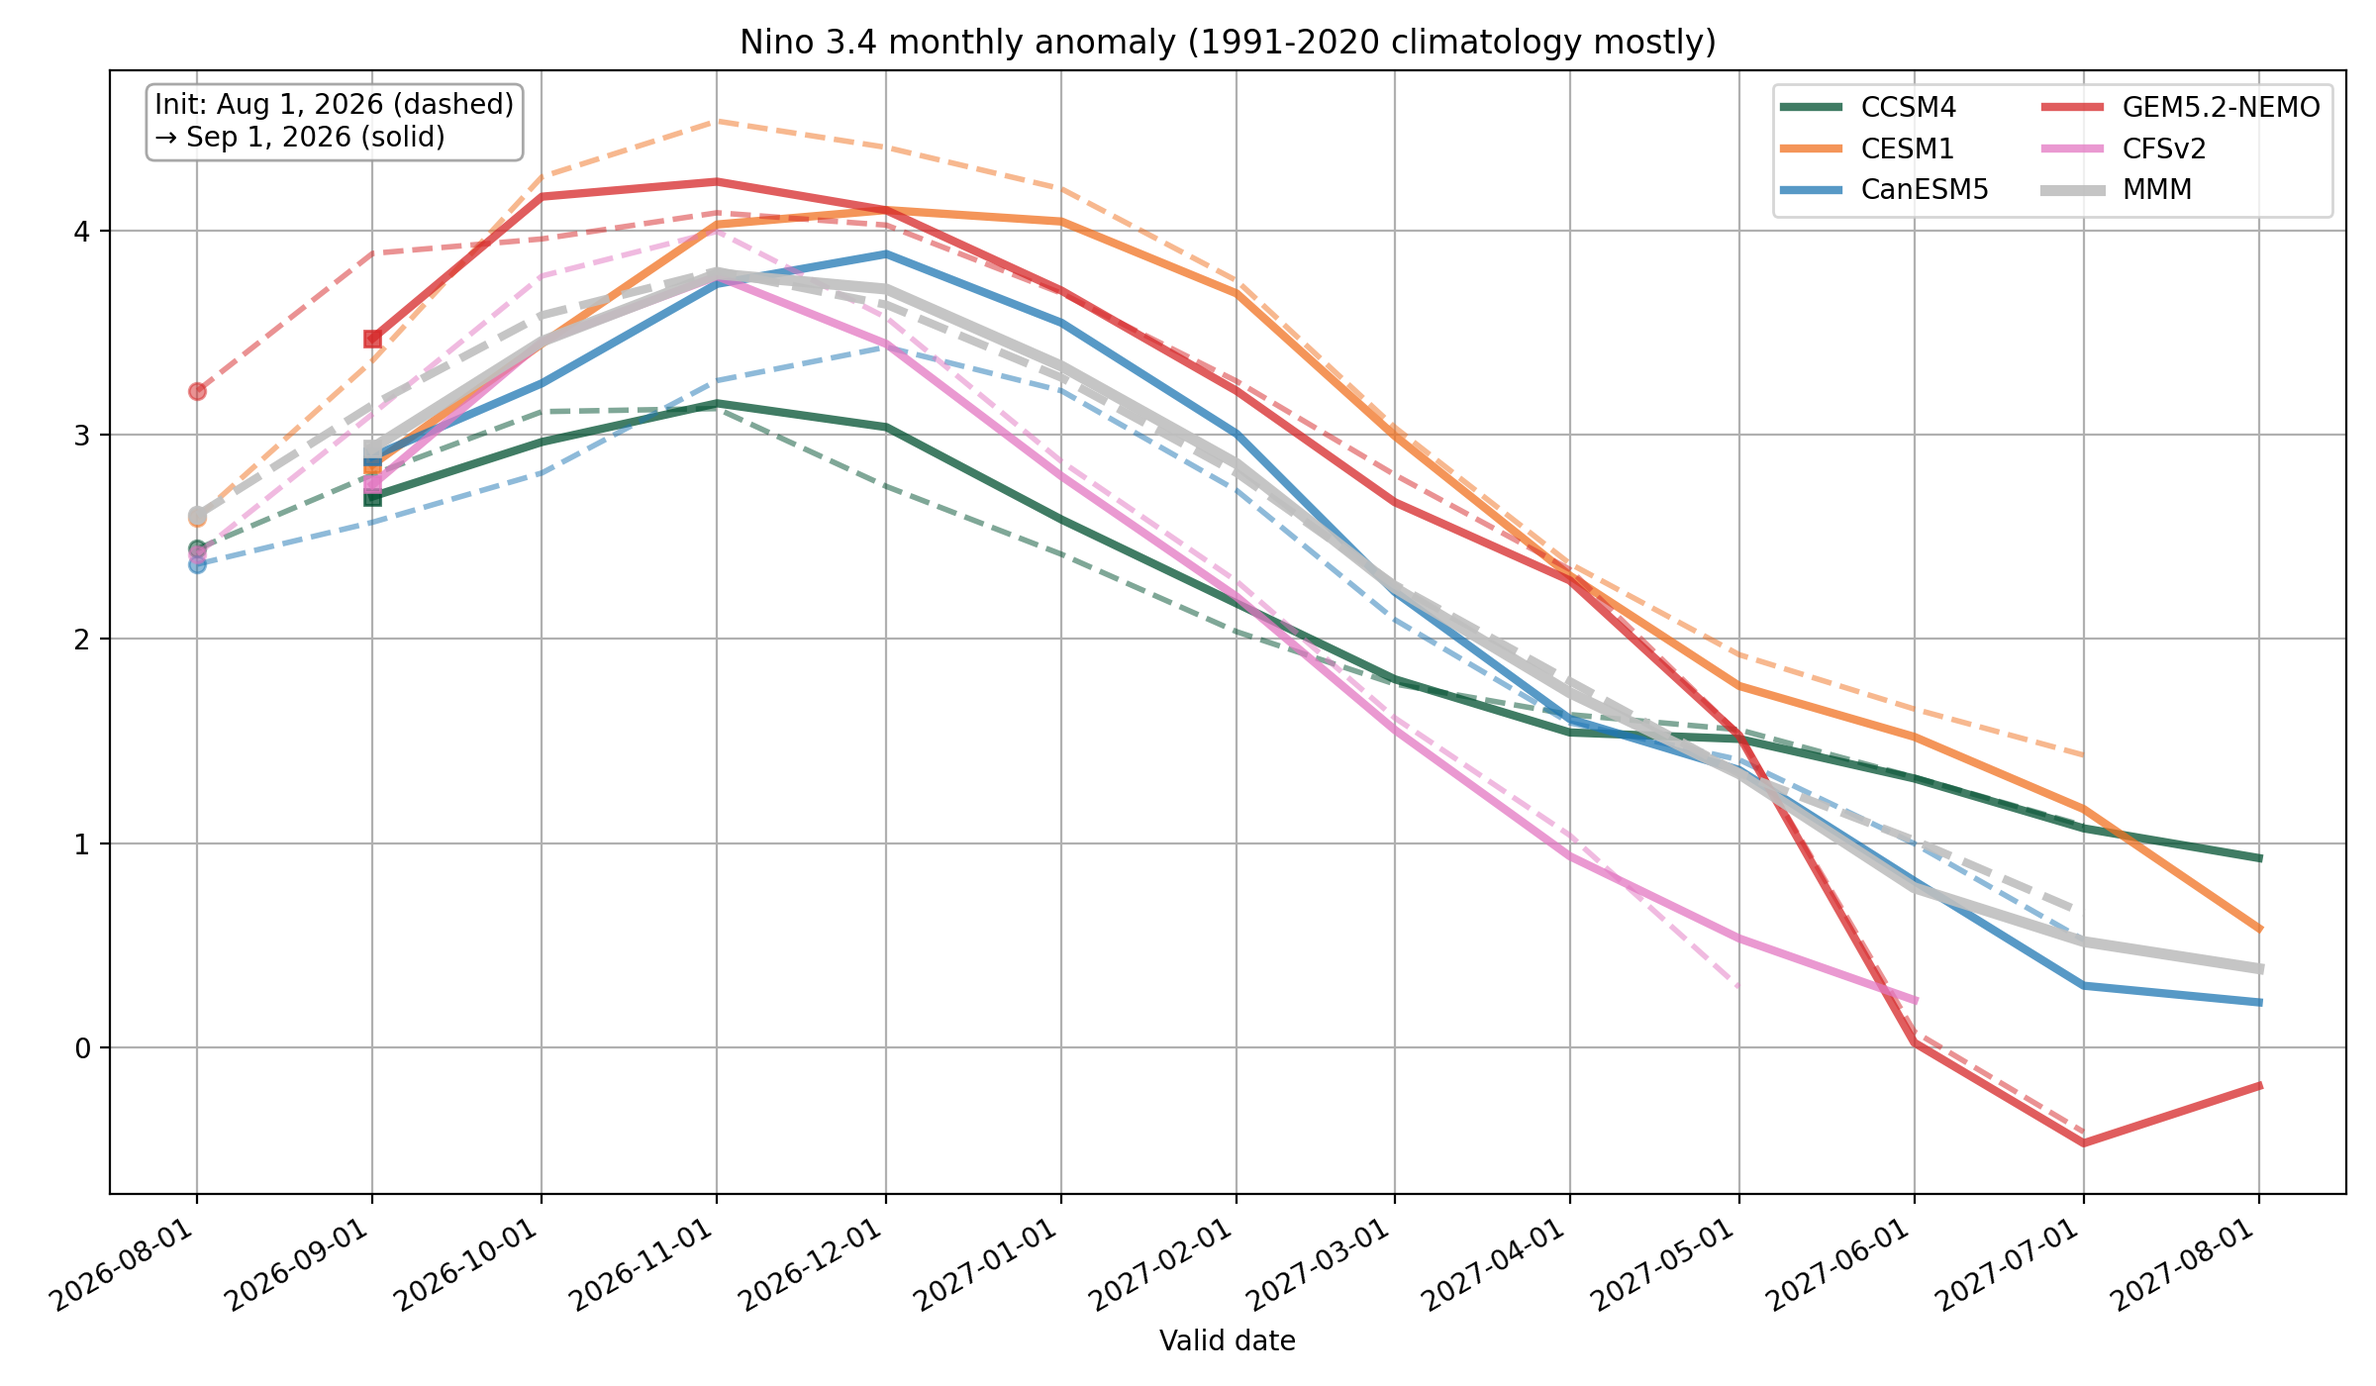
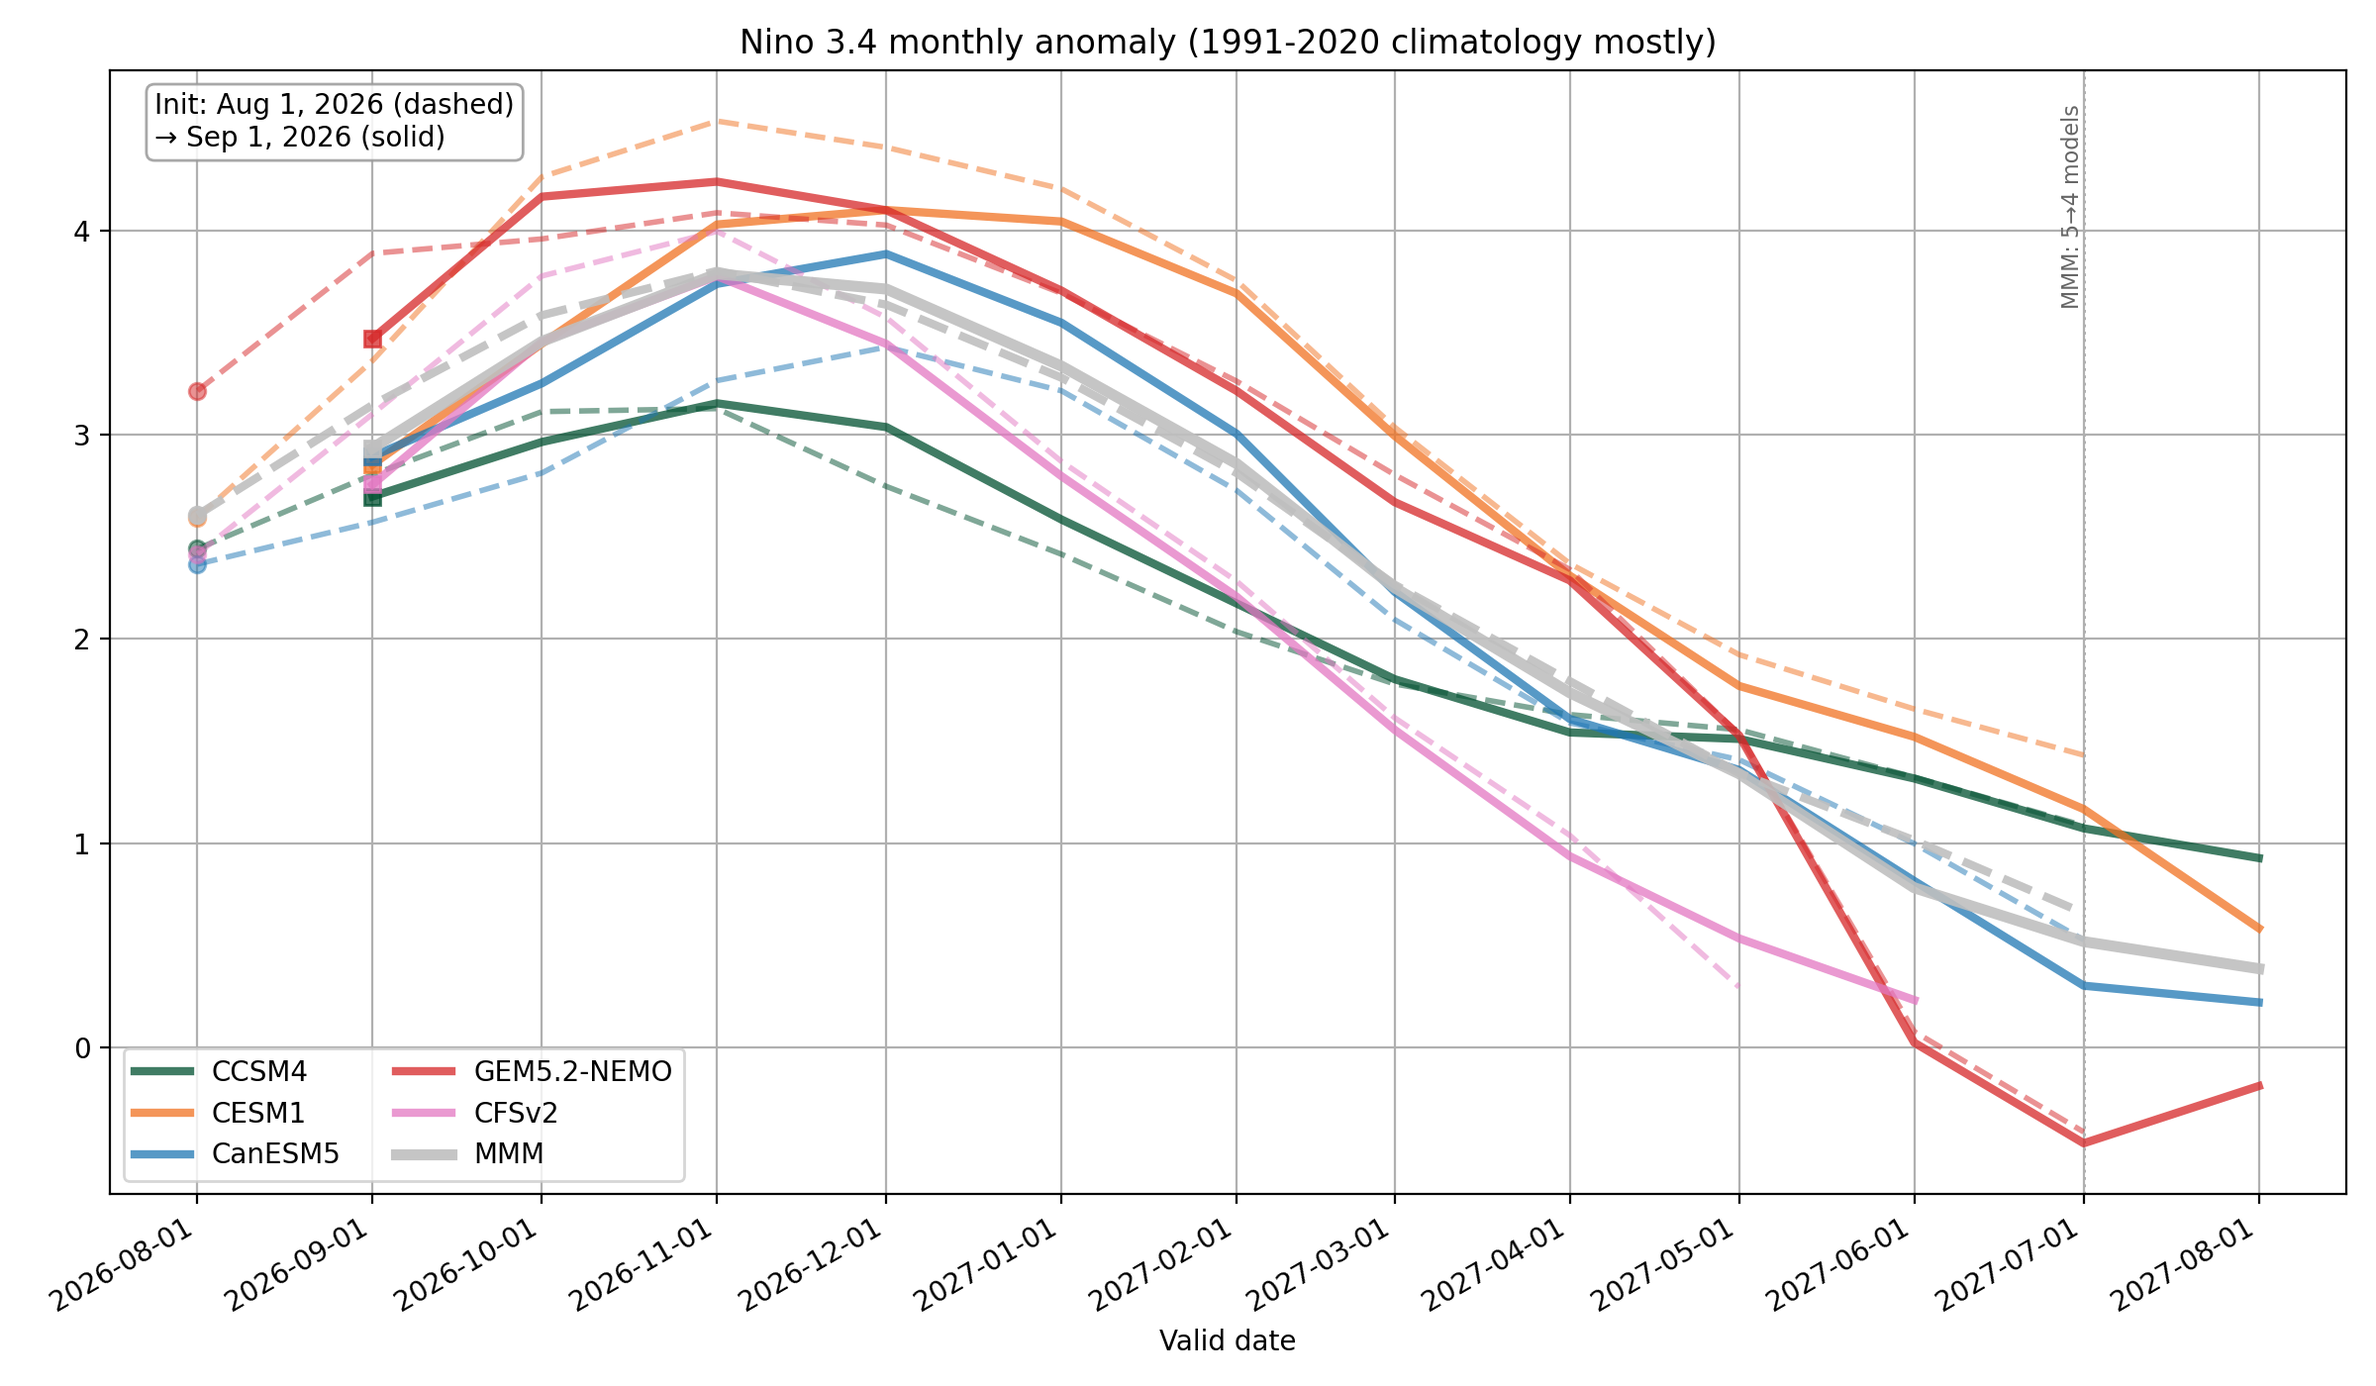
Flag MMM model-composition step in latest-forecast plume figures
The MMM's skipna mean silently shrinks its averaged model set as
shorter-lead models (NASA-GEOSS2S, NCEP-CFSv2) run out of forecast,
producing a step that can read as real forecast decay. Add
_annotate_mmm_steps to mark the drop in-figure (dotted vline + model-count
label) rather than correcting or hiding it, per the project's rule to
document display artifacts. Resolves the open item tracked since 2026-08-05.

Claude-Session: https://claude.ai/code/session_01Sx79iqrvBdSXQF7K4ZDYs1

Changed region(s): [[0.75, 0.0614, 1.0, 0.215], [0.0312, 0.7679, 0.2812, 0.86]]

diff --git a/scripts/latest_forecast.py b/scripts/latest_forecast.py
@@ -331,6 +331,30 @@ def _set_xaxis(fig, ax, ticks, seasonal):
     ax.set_xlim(_tight_xlim(ticks))
 
 
+def _annotate_mmm_steps(ax, leads, mean_list, l0):
+    """Mark leads where the MMM's contributing model count drops (a
+    shorter-lead model, e.g. NASA-GEOSS2S or NCEP-CFSv2, running out of
+    forecast; see config.N_LEADS_PLOT docstring), so the resulting step in
+    the MMM line isn't misread as real forecast change. `xr.concat(...).mean(
+    "model", skipna=True)` (the default) silently shrinks the averaged model
+    set rather than raising, so the step must be flagged rather than left
+    implicit — see specs/latest_forecast.md Edge Cases.
+
+    Skips indices < l0: the seasonal variant's centered rolling mean leaves
+    every model NaN at the first (and last) lead, which is a smoothing
+    artifact common to all models, not a composition change.
+    """
+    n_models = xr.concat(mean_list, dim="model").notnull().sum("model").values
+    for i in range(l0 + 1, len(n_models)):
+        if 0 < n_models[i] < n_models[i - 1]:
+            ax.axvline(leads[i], color="0.55", ls=":", lw=1, alpha=0.8, zorder=0)
+            ax.annotate(
+                f"MMM: {n_models[i - 1]}→{n_models[i]} models",
+                xy=(leads[i], 0.97), xycoords=ax.get_xaxis_transform(),
+                rotation=90, va="top", ha="right", fontsize=8, color="0.4",
+            )
+
+
 def plot_grid(ds, start, spec, now_idx, date_suffix):
     """Per-model facet grid of the latest forecast anomaly (lead x member)."""
     da = ds[spec["var"]].isel(S=now_idx)
@@ -391,6 +415,7 @@ def plot_compare(ds, start, avail, model_colors, spec, now_idx, prev_idx, date_s
     ax.plot(leads_prev[l0], mmm_prev.isel(L=l0), "o", lw=3, color=MMM_COLOR, alpha=0.9)
     ax.plot(leads_now, mmm_now, lw=4, color=MMM_COLOR, label="MMM", alpha=0.9)
     ax.plot(leads_now[l0], mmm_now.isel(L=l0), "s", lw=4, color=MMM_COLOR, alpha=0.9)
+    _annotate_mmm_steps(ax, leads_now, now_list, l0)
 
     ticks = pd.date_range(start[prev_idx], periods=13, freq="MS")
     _set_xaxis(fig, ax, ticks, seasonal)
@@ -432,6 +457,7 @@ def plot_spread(ds, start, avail, model_colors, spec, now_idx, date_suffix, seas
     mmm = xr.concat(mean_list, dim="model").mean("model")
     ax.plot(leads, mmm, lw=5, color=MMM_COLOR, label="MMM", alpha=0.9)
     ax.plot(leads[l0], mmm.isel(L=l0), "s", lw=4, color=MMM_COLOR)
+    _annotate_mmm_steps(ax, leads, mean_list, l0)
 
     ticks = pd.date_range(start[now_idx], periods=12, freq="MS")
     _set_xaxis(fig, ax, ticks, seasonal)
@@ -478,6 +504,7 @@ def plot_spread_synthetic(ds, start, avail, model_colors, spec, now_idx, date_su
     ax.plot(leads, hi, "--", lw=2, color=SYNTHETIC_MMM_COLOR, alpha=0.8)
     ax.plot(leads, mmm, lw=5, color=SYNTHETIC_MMM_COLOR, label="MMM", alpha=0.9)
     ax.plot(leads[l0], mmm.isel(L=l0), "s", lw=4, color=SYNTHETIC_MMM_COLOR)
+    _annotate_mmm_steps(ax, leads, mean_list, l0)
 
     ticks = pd.date_range(start[now_idx], periods=12, freq="MS")
     _set_xaxis(fig, ax, ticks, seasonal)
@@ -780,6 +807,7 @@ def plot_mean(ds, start, avail, model_colors, spec, now_idx, date_suffix, season
     mmm = xr.concat(mean_list, dim="model").mean("model")
     ax.plot(leads, mmm, lw=4, color=MMM_COLOR, label="MMM", alpha=0.9)
     ax.plot(leads[l0], mmm.isel(L=l0), "s", lw=4, color=MMM_COLOR)
+    _annotate_mmm_steps(ax, leads, mean_list, l0)
 
     ticks = pd.date_range(start[now_idx], periods=12, freq="MS")
     _set_xaxis(fig, ax, ticks, seasonal)

diff --git a/specs/latest_forecast.md b/specs/latest_forecast.md
@@ -310,6 +310,27 @@ rather than plotted as a gap.
   and deliberately reverted (see Synchronization Log 2026-07-09) since Grid's
   panels are member x lead heatmaps and MMM has no member dimension of its
   own.
+- **MMM composition-change annotation** (`_annotate_mmm_steps`) — the MMM's
+  `xr.concat([...], dim="model").mean("model")` is `skipna=True` by default,
+  so as shorter-lead models (`NASA-GEOSS2S`, `NCEP-CFSv2`; see
+  `config.N_LEADS_PLOT` docstring) run out of forecast and drop to NaN, the
+  MMM silently averages over fewer models rather than raising or padding —
+  producing a step in the MMM line that can read as real forecast change
+  when it is actually a change in which models are being averaged. Rather
+  than correcting or hiding this (per the project's rule to document display
+  artifacts, not clip them), `_annotate_mmm_steps(ax, leads, mean_list, l0)`
+  computes the per-lead count of non-NaN models
+  (`xr.concat(mean_list, dim="model").notnull().sum("model")`) and, at every
+  lead index `i > l0` where that count drops (and is still > 0), draws a
+  light dotted vline (`color="0.55", ls=":"`) plus a small rotated label
+  `"MMM: N→M models"` (axes-fraction y, data-coordinate x, via
+  `ax.get_xaxis_transform()`) just inside the top of the axes. Called once
+  per figure that plots an MMM line — Compare (only for the selected-init
+  `now_list`, not the previous-init line, to avoid doubling the annotation),
+  Spread, Spread-synthetic, and Mean — immediately after that figure's MMM
+  `ax.plot()` call. `l0` (1 for seasonal, 0 for monthly) is passed through so
+  the seasonal variant's all-model NaN endpoints (see §4a) are never flagged
+  as a composition change.
 
 ### 4a. X-axis ticks and limits
 
@@ -672,8 +693,11 @@ monthly and seasonal — each with 4 rows (`n34 anom`, `n34 rank`, `n34r anom`,
   defensively.
 - **Models with shorter lead count** (`NASA-GEOSS2S`, `NCEP-CFSv2`; see
   `config.N_LEADS_PLOT` docstring) are NaN-padded to 12 leads in the store,
-  so no special-casing is needed in the plotting code — NaNs simply stop the
-  line early.
+  so no special-casing is needed for their own per-model lines — NaNs simply
+  stop the line early. The MMM line built across models *does* need
+  special-casing, since `.mean("model")` silently shrinks the averaged set
+  rather than stopping — see the MMM composition-change annotation bullet in
+  §4 and Synchronization Log 2026-09-07.
 - **A future model with incomplete 1991-2020 hindcast coverage joining
   `avail_models`**: `_lead_error_cov` (called by both `_synthetic_plume` and
   `plot_strength_probabilities`) raises `ValueError` naming the
@@ -851,11 +875,14 @@ print("Verification passed.")
 ## Open Items
 
 - **Verification snippet's "Synthetic-plume sanity" block is broken** (pre-existing, found 2026-09-07 while re-running the full snippet after this session's `strength_probabilities` additions — not caused by this session's changes, confirmed unchanged in `git show HEAD:specs/latest_forecast.md`). It builds `avail` as *positional* indices (`np.where(...)[0]`) and passes them to `_synthetic_plume`, which does `ds[...].sel(model=avail_models)` — `.sel` expects model *names* (as `_available_models` in the actual script returns), so it raises `KeyError: "not all values found in index 'model'"`. Needs `avail_models = ds.model.isel(model=avail).values` (matching the pattern already used a few lines above in the "Summary-table rank sanity" block) before the `_synthetic_plume` calls. Not fixed this session (out of scope — unrelated to `strength_probabilities`); the rest of the snippet (through the new strength-category partition check) passes.
+- **`latest_forecast_summary.md` doesn't carry the same MMM-composition flag as the figures.** This session's `_annotate_mmm_steps` fix (see Synchronization Log 2026-09-07) is figure-only; `write_summary_tables`/`_historical_mmm` compute the same kind of shrinking-model-set MMM for the summary table's anomaly/rank rows but the table has no equivalent note when a lead's model count differs from the pool. Not addressed this session — scoped to "the latest plots" per the request that prompted the fix.
+- **Whether `GFDL-SPEAR` belongs in the MMM pool at all** — raised 2026-08-05, still open. 9 of its last 14 starts (2025-06 through 2026-06) are interior all-NaN upstream (see `config._nan_start_report`, Synchronization Log 2026-08-05), so it drops in and out of `avail`/the MMM ranking climatology inconsistently across recent inits, unlike a model that has simply reached its lead limit (which `_annotate_mmm_steps`, added this session, now flags). Needs a decision: exclude `GFDL-SPEAR` from the MMM pool until upstream is fixed, flag its intermittent absence the same way as the lead-limit case, or leave as-is pending an upstream fix. Not addressed this session.
 
 ## Synchronization Log
 
 | Date | Code change | Spec updated |
 |------|-------------|--------------|
+| 2026-09-07 | **Flagged the MMM's model-composition step with an in-figure annotation** (new `_annotate_mmm_steps(ax, leads, mean_list, l0)`), resolving the open item raised 2026-08-05 (memory `mmm-lead9-composition-step`): the MMM's `xr.concat([...], dim='model').mean('model')` silently shrinks the averaged model set as shorter-lead models (`NASA-GEOSS2S`, `NCEP-CFSv2`) run out of forecast, producing a step in the MMM line that can read as real forecast decay. Fixed by documenting the artifact rather than correcting it (per the project's display-choices rule): the new helper computes the per-lead non-NaN model count and draws a dotted vline + `"MMM: N→M models"` label at every lead where it drops, called from `plot_compare` (selected-init line only), `plot_spread`, `plot_spread_synthetic`, and `plot_mean`, right after each figure's MMM `ax.plot()`. Confirmed live in the 2026-09 init: `NCEP-CFSv2` (the only model still running past lead 9, since `GFDL-SPEAR` and `NASA-GEOSS2S` are both currently absent from `avail` — see new Open Item on `GFDL-SPEAR`) drops at lead 10, so all 16 MMM-line figures (2 indices x 2 kinds x 4 figure types) now carry the "MMM: 5→4 models" marker at 2027-07 (monthly) / MJJ (seasonal). All 16 figures regenerated and visually checked for label placement (no collision with legends or data in either variant). No numeric/algorithm change to any plotted value — annotation only. See Algorithm §4 (new bullet) and Edge Cases. | ✓ |
 | 2026-09-07 | **Switched strength_probabilities from Monte Carlo to an analytic normal CDF**, per user question ("does this use the 100 synthetic members or a formula?") followed by a request to swap and confirm the difference is small. Extracted `_lead_error_cov(ds, avail, spec, seasonal, now_idx)` out of `_synthetic_plume` (steps 1-6 of the covariance build — historical MMM forecast error, stratified by start month, `np.cov` across leads — now shared; `_synthetic_plume` keeps only the draw/add-to-MMM steps 7-8, behavior-preserving, same seed/cov/inputs). New `_category_pct_normal(lo, hi, mean, std)` (`scipy.stats.norm.cdf`) computes each category's probability directly from `lead_mean = mmm.sel(L=valid_L)` and `lead_std = sqrt(diag(cov))` — no draws, so `N_STRENGTH_DRAWS` and the `N_SYNTHETIC_MEMBERS` save/restore dance are removed entirely. Verified the swap changes nothing that matters: compared against the prior 5000-draw Monte Carlo implementation (`scratchpad/compare_mc_vs_analytic.py`, not checked in) — max discrepancy 1.2 percentage points, mean 0.16 pp across 10 categories x 10 seasons of the 2026-09 init, against an expected 1σ Monte Carlo sampling noise of ~0.7 pp at N=5000 (worst case p=0.5) — differences are consistent with pure sampling noise. Added two Verification Snippet checks: `_category_pct_normal` sums to 100% across all categories for arbitrary mean/std (partition telescopes), and the pre-existing category-partition check still passes. New import `scipy.stats.norm`. All figures regenerated (only `strength_probabilities.png` changes visibly; the Monte Carlo plume figures using `_synthetic_plume` are numerically unaffected by the refactor). See Algorithm §4b/§4c, Constants, Verification Snippet. | ✓ |
 | 2026-09-07 | **Revised strength_probabilities to a 3-bar grouped layout and added a Super El Niño category**, per the user pointing to the actual CPC ENSO Strength Probabilities chart (the initial single-stacked-bar version misread the reference image). `_strength_categories()` restructured from one flat ascending list to `{"la_nina": [...], "neutral": (...), "el_nino": [...]}`; `plot_strength_probabilities` now plots 3 bars per season (La Niña at `x-0.27`, Neutral at `x`, El Niño at `x+0.27`, `bar_width=0.26`) instead of one 9-segment stack, with an explicit `Patch`-based legend (CPC order: El Niño strongest-first, Neutral, La Niña weakest-first) replacing the reversed-`get_legend_handles_labels()` approach. Colors re-sampled with `PIL.Image.getpixel` from a CPC chart screenshot (legend swatch fills and family edge colors) rather than eyeballed hex, per user request to match more closely. New category: Super El Niño (`index >= 3.0°C`, `#660000`), with Very Strong El Niño narrowed to `2.0°C <= index < 3.0°C` — a project-specific extension beyond the CPC chart (which stops at Very Strong `>= 2.0°C`), confirmed with the user; no mirrored Super La Niña added. New module import `matplotlib.patches`. Figure regenerated (`n34r/seasonal/strength_probabilities.png`). See Algorithm §4c, Constants, Edge Cases. | ✓ |
 | 2026-09-07 | **Added the strength_probabilities figure** (`plot_strength_probabilities`, `_strength_categories`, `_in_category`), n34r/seasonal-only: NOAA CPC ENSO Strength Probabilities chart format, reusing `_synthetic_plume` at a higher draw count (`N_STRENGTH_DRAWS=5000`, temporarily overriding the module-global `N_SYNTHETIC_MEMBERS` via save/restore, same pattern as `kalshi_roni_pricing.py`) for smoother category percentages. Title/subtitle adapted from the CPC original ("ENSO Strength Probabilities" without the "NOAA CPC" prefix; subtitle replaced with "Based on the NMME MMM and historical performance"); the CPC chart's caveat text box omitted per user request. New output `plots/latest_forecast/n34r/seasonal/strength_probabilities.png` (19th figure). Same-session, this initial design (a single 9-segment stacked bar per season) was superseded by the 3-bar grouped layout in the following log entry after the user compared it against the actual CPC chart. See Algorithm §4c, Constants, Edge Cases. | ✓ |
